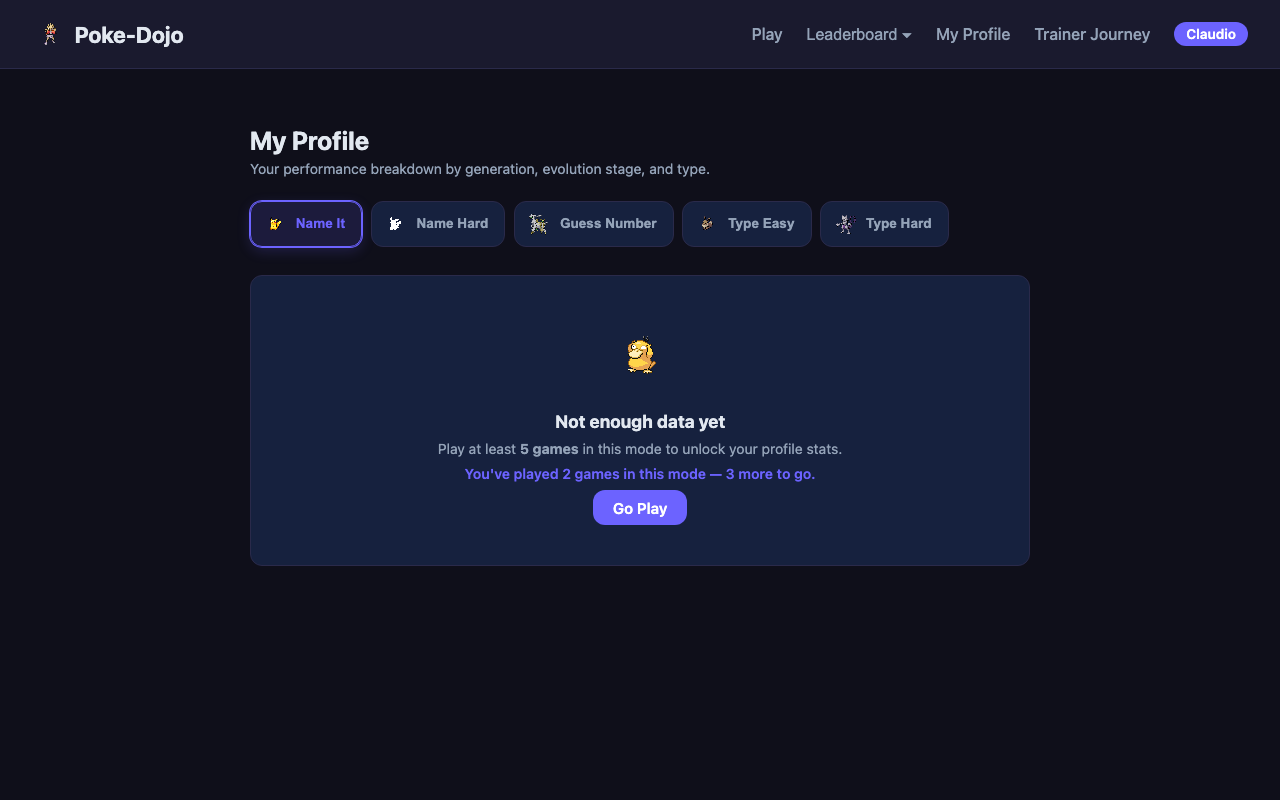
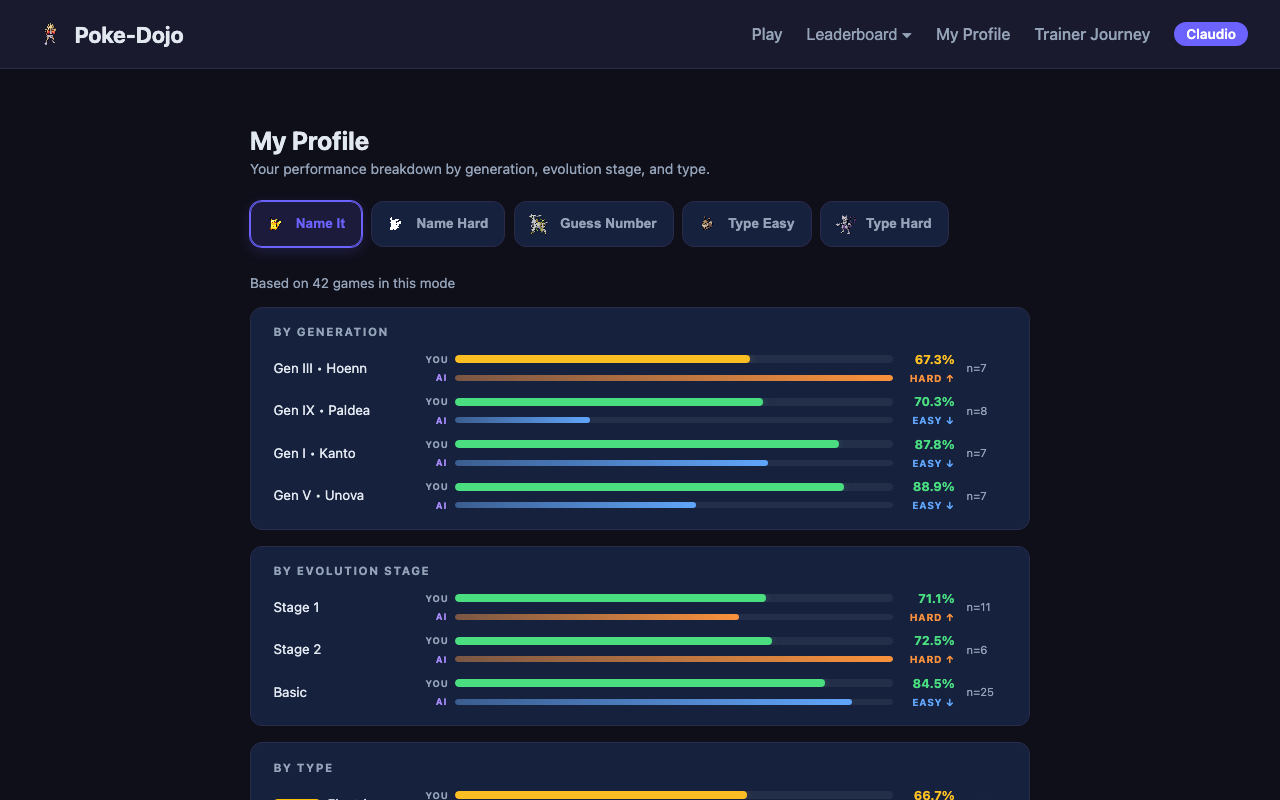
Leaderboard rank colors, same-letter options, profile screenshots
- Battle Arena options now prefer same first letter as the correct Pokémon
  (falls back to same generation, then any Pokémon)
- Leaderboard first place row highlighted green, last place row red
  (replaces gold/amber; applied to both Dojo and Arena leaderboards)
- Profile and Trainer Journey screenshots updated with 77 real games of data

Changed region(s): [[0.1875, 0.3438, 0.8125, 1.0], [0.2188, 0.5625, 0.2812, 0.625], [0.2188, 0.5, 0.2812, 0.5312]]

diff --git a/app/templates/arena_leaderboard.html b/app/templates/arena_leaderboard.html
@@ -85,21 +85,25 @@
 
     if (!sorted.length) { empty.classList.remove("hidden"); return; }
 
-    function rankClass(i) {
-      return i === 0 ? "rank-gold" : i === 1 ? "rank-silver" : i === 2 ? "rank-bronze" : "";
+    function rankClass(i, n) {
+      if (i === 0) return "rank-gold";
+      if (i === 1) return "rank-silver";
+      if (i === 2) return "rank-bronze";
+      if (i === n - 1) return "rank-last";
+      return "";
     }
     function highlightClass(e) {
       return username && e.username === username ? "highlight-row" : "";
     }
 
     tbody.innerHTML = sorted.map((e, i) => isSolo ? `
-      <tr class="${rankClass(i)} ${highlightClass(e)}">
+      <tr class="${rankClass(i, sorted.length)} ${highlightClass(e)}">
         <td>${i + 1}</td>
         <td><strong>${e.username}</strong></td>
         <td class="best">${e.best_run_score} pts</td>
         <td>${e.longest_streak}</td>
       </tr>` : `
-      <tr class="${rankClass(i)} ${highlightClass(e)}">
+      <tr class="${rankClass(i, sorted.length)} ${highlightClass(e)}">
         <td>${i + 1}</td>
         <td><strong>${e.username}</strong></td>
         <td class="best">${e.best_vs_score} pts</td>

diff --git a/app/templates/scores.html b/app/templates/scores.html
@@ -86,8 +86,11 @@
     const empty = document.getElementById(emptyId);
     if (!scores.length) { table.classList.add("hidden"); empty.classList.remove("hidden"); return; }
     empty.classList.add("hidden");
-    tbody.innerHTML = scores.map((s, i) => `
-      <tr class="${username && s.username === username ? 'highlight-row' : ''}">
+    tbody.innerHTML = scores.map((s, i) => {
+      const rankCls = i === 0 ? "rank-gold" : i === scores.length - 1 ? "rank-last" : "";
+      const hlCls   = username && s.username === username ? "highlight-row" : "";
+      return `
+      <tr class="${rankCls} ${hlCls}">
         <td>${i + 1}</td>
         <td><strong>${s.username}</strong></td>
         <td>${s.total_games}</td>
@@ -95,7 +98,7 @@
         <td class="best">${fmtScore(s.best_score)}</td>
         <td class="worst">${fmtScore(s.worst_score)}</td>
       </tr>
-    `).join("");
+    `}).join("");
     table.classList.remove("hidden");
   }
 

diff --git a/static/css/style.css b/static/css/style.css
@@ -398,9 +398,10 @@ a:hover { color: var(--accent-hover); }
 .best { color: var(--green); }
 .worst { color: var(--red); }
 .centered-msg { text-align: center; padding: 3rem; color: var(--text-muted); }
-.rank-gold td   { color: #f59e0b; font-weight: 700; }
+.rank-gold td   { color: var(--green); font-weight: 700; }
 .rank-silver td { color: #94a3b8; font-weight: 600; }
 .rank-bronze td { color: #a16207; font-weight: 600; }
+.rank-last td   { color: var(--red); font-weight: 600; }
 .date-cell { color: var(--text-muted); font-size: 0.82rem; }
 .badge {
   display: inline-block;

diff --git a/play_games.py b/play_games.py
@@ -1,0 +1,96 @@
+"""
+Play ~75 games via the API to populate profile and journey data.
+Run with: uv run python play_games.py
+"""
+import sys
+sys.path.insert(0, ".")
+
+import requests
+import random
+from app.database import SessionLocal
+from app.models import Pokemon
+
+BASE = "http://localhost:8000"
+USERNAME = "Claudio"
+
+def get_name(db, pokemon_id: int) -> str:
+    p = db.query(Pokemon).filter(Pokemon.id == pokemon_id).first()
+    return p.name if p else "pikachu"
+
+def play_name_guess(db, n=40):
+    print(f"Playing {n} Name It (medium) games...")
+    for i in range(n):
+        r = requests.post(f"{BASE}/game/start", json={"username": USERNAME, "game_type": "name_guess"})
+        data = r.json()
+        pid = data["pokemon_id"]
+        correct = get_name(db, pid)
+        time_used = random.uniform(3, 45)
+        # 75% correct, 25% wrong to get realistic stats
+        guess = correct if random.random() < 0.75 else "wrongguess"
+        sr = requests.post(f"{BASE}/game/submit", json={
+            "username": USERNAME, "pokemon_id": pid,
+            "game_type": "name_guess", "guess": guess, "time_used": time_used,
+        })
+        score = sr.json().get("final_score", 0)
+        print(f"  [{i+1}/{n}] #{pid} {correct:<20} → {score:.1f} pts  ({time_used:.1f}s)")
+
+def play_name_hard(db, n=15):
+    print(f"Playing {n} Name It (hard) games...")
+    for i in range(n):
+        r = requests.post(f"{BASE}/game/start", json={"username": USERNAME, "game_type": "name_hard"})
+        data = r.json()
+        pid = data["pokemon_id"]
+        correct = get_name(db, pid)
+        time_used = random.uniform(8, 58)
+        guess = correct if random.random() < 0.50 else "wrongguess"
+        sr = requests.post(f"{BASE}/game/submit", json={
+            "username": USERNAME, "pokemon_id": pid,
+            "game_type": "name_hard", "guess": guess, "time_used": time_used,
+        })
+        score = sr.json().get("final_score", 0)
+        print(f"  [{i+1}/{n}] #{pid} {correct:<20} → {score:.1f} pts")
+
+def play_number_guess(n=10):
+    print(f"Playing {n} Guess Number games...")
+    for i in range(n):
+        r = requests.post(f"{BASE}/game/start", json={"username": USERNAME, "game_type": "number_guess"})
+        data = r.json()
+        pid = data["pokemon_id"]
+        time_used = random.uniform(4, 40)
+        offset = random.randint(-50, 50)
+        guess = str(max(1, min(1025, pid + offset)))
+        sr = requests.post(f"{BASE}/game/submit", json={
+            "username": USERNAME, "pokemon_id": pid,
+            "game_type": "number_guess", "guess": guess, "time_used": time_used,
+        })
+        score = sr.json().get("final_score", 0)
+        print(f"  [{i+1}/{n}] #{pid} (guessed {guess}) → {score:.1f} pts")
+
+def play_type_easy(n=10):
+    print(f"Playing {n} Type Easy games...")
+    for i in range(n):
+        r = requests.post(f"{BASE}/game/start", json={"username": USERNAME, "game_type": "type_easy"})
+        data = r.json()
+        pid = data["pokemon_id"]
+        choices = data.get("type_choices", ["Fire", "Water", "Grass", "Normal"])
+        time_used = random.uniform(1, 18)
+        # 60% chance to pick the correct type (position 0 is correct 25% of time statistically)
+        # Just pick randomly from choices for variety
+        guess = random.choice(choices)
+        sr = requests.post(f"{BASE}/game/submit", json={
+            "username": USERNAME, "pokemon_id": pid,
+            "game_type": "type_easy", "guess": guess, "time_used": time_used,
+        })
+        score = sr.json().get("final_score", 0)
+        print(f"  [{i+1}/{n}] #{pid} → {score:.1f} pts")
+
+if __name__ == "__main__":
+    db = SessionLocal()
+    try:
+        play_name_guess(db, 40)
+        play_name_hard(db, 15)
+        play_number_guess(10)
+        play_type_easy(10)
+    finally:
+        db.close()
+    print("\nDone! Played 75 games total.")

diff --git a/take_profile_screenshots.py b/take_profile_screenshots.py
@@ -1,0 +1,53 @@
+"""Take profile and trainer journey screenshots after games are played."""
+import asyncio
+from pathlib import Path
+from playwright.async_api import async_playwright
+
+BASE = "http://localhost:8000"
+OUT = Path("screenshots")
+USERNAME = "Claudio"
+
+async def new_page(browser):
+    ctx = await browser.new_context(viewport={"width": 1280, "height": 800})
+    page = await ctx.new_page()
+    await page.add_init_script(f"localStorage.setItem('poke_username', '{USERNAME}');")
+    return page
+
+async def take(page, name):
+    await page.screenshot(path=str(OUT / name), full_page=False)
+    print(f"  ✓ {name}")
+
+async def main():
+    async with async_playwright() as pw:
+        browser = await pw.chromium.launch(headless=True)
+
+        print("13 Profile")
+        page = await new_page(browser)
+        await page.goto(f"{BASE}/profile")
+        await page.wait_for_load_state("networkidle")
+        # Wait for profile content to render (bars, etc.)
+        await page.wait_for_timeout(2000)
+        await take(page, "13_profile.png")
+        await page.close()
+
+        print("14 Trainer Journey")
+        page = await new_page(browser)
+        await page.goto(f"{BASE}/journey")
+        await page.wait_for_load_state("networkidle")
+        await page.wait_for_timeout(1500)
+        await take(page, "14_trainer_journey.png")
+        await page.close()
+
+        # Also retake leaderboard since Claudio now has real scores
+        print("12 Leaderboard")
+        page = await new_page(browser)
+        await page.goto(f"{BASE}/leaderboard")
+        await page.wait_for_selector("#global-table:not(.hidden)", timeout=8000)
+        await page.wait_for_timeout(500)
+        await take(page, "12_leaderboard.png")
+        await page.close()
+
+        await browser.close()
+        print("Done!")
+
+asyncio.run(main())

diff --git a/app/routers/battle_arena.py b/app/routers/battle_arena.py
@@ -26,15 +26,27 @@ def _get_or_create_user(username: str, db: Session) -> User:
 
 
 def _pick_options(correct: Pokemon, db: Session) -> list[dict]:
-    """Return 3 shuffled name options: correct + 2 wrong from same generation."""
+    """Return 3 shuffled name options: correct + 2 wrong, preferring same first letter."""
+    first_letter = correct.name[0].upper()
+
+    # Prefer: wrong options starting with the same letter
     wrong_pool = (
         db.query(Pokemon)
-        .filter(Pokemon.generation == correct.generation, Pokemon.id != correct.id)
+        .filter(Pokemon.name.ilike(first_letter + "%"), Pokemon.id != correct.id)
         .order_by(func.random())
         .limit(2)
         .all()
     )
-    # Fallback: pick from any gen if same-gen pool is too small
+    # Fallback: same generation
+    if len(wrong_pool) < 2:
+        wrong_pool = (
+            db.query(Pokemon)
+            .filter(Pokemon.generation == correct.generation, Pokemon.id != correct.id)
+            .order_by(func.random())
+            .limit(2)
+            .all()
+        )
+    # Final fallback: any Pokémon
     if len(wrong_pool) < 2:
         wrong_pool = (
             db.query(Pokemon)